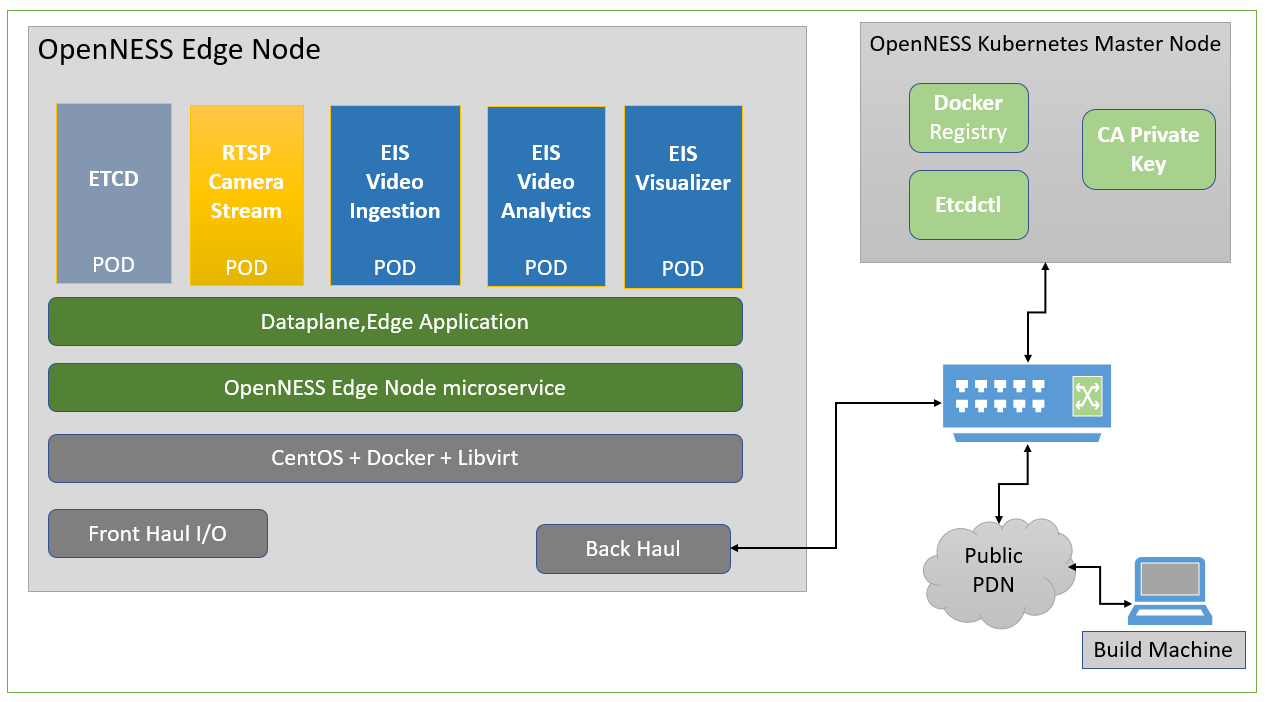
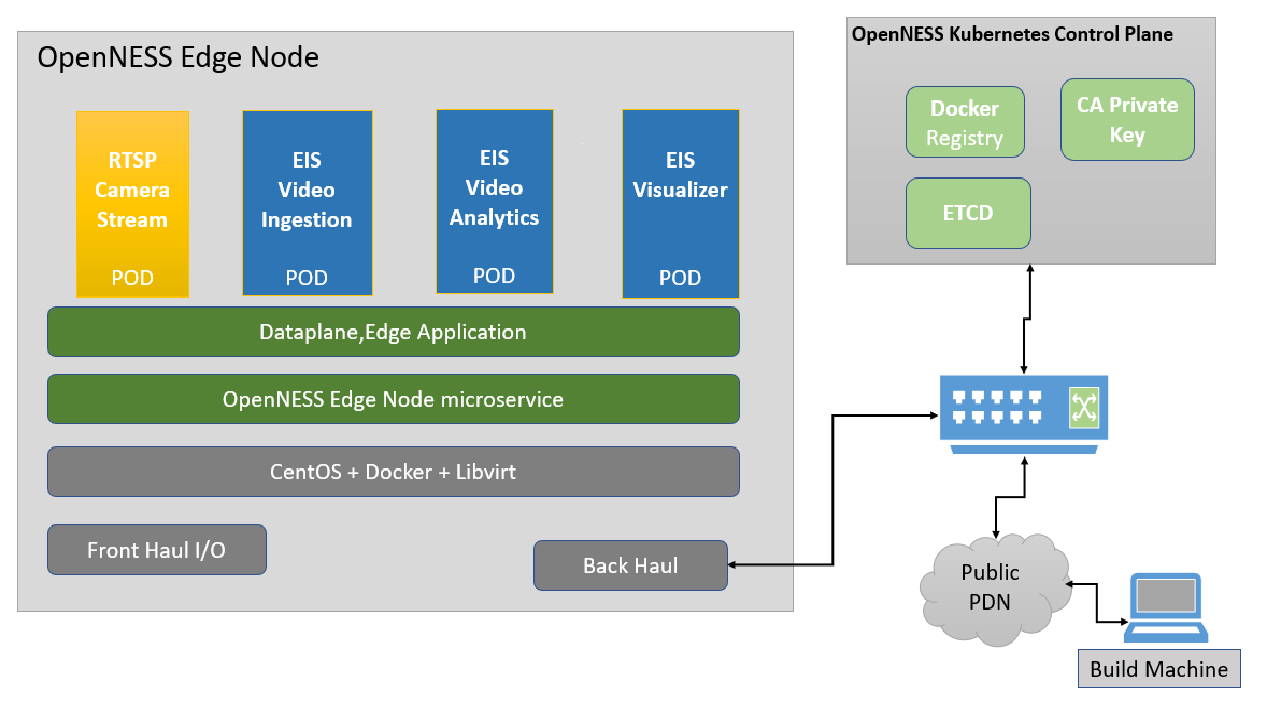
EIS2.4 doc update

diff --git a/applications/eis-experience-kit/README.md b/applications/eis-experience-kit/README.md
@@ -49,7 +49,22 @@ To use the release package, user should get it manually and the path to it shoul
 
 The release package can be downloaded here: [https://software.intel.com/iot/edgesoftwarehub/download/home/industrialinsights](https://software.intel.com/iot/edgesoftwarehub/download/home/industrialinsights)
 
-After release package download follow link for preparing release code base: [https://software.intel.com/content/www/us/en/develop/documentation/edge-insights-industrial-doc/get-started-guide.html](https://software.intel.com/content/www/us/en/develop/documentation/edge-insights-industrial-doc/get-started-guide.html)
+
+```sh
+Download Version :2.4
+Target System OS :Ubuntu 18.04.LTS
+Select Use Case :Video Analytic + Time Series
+```
+During  download we will get product key, keep this product key which will use while preparing edgesoftware download.
+
+After release package download follow this link for preparing eis release code base on Ubuntu Host: [https://software.intel.com/content/www/us/en/develop/documentation/edge-insights-industrial-doc/get-started-guide.html](https://software.intel.com/content/www/us/en/develop/documentation/edge-insights-industrial-doc/get-started-guide.html)
+
+```sh
+#unzip edge_insights_industrial.zip
+#cd edge_insights_industrial
+#./edgesoftware download
+```
+After download success copy "Edge_Insights_for_Industrial_2.4" folder on OpenNESS ansible host build machine.
 
 ### Build Stage
 Overview on `eis-experience-kit` architecture:
@@ -62,13 +77,18 @@ All the `build` tasks are perfomed on `localhost`. It is the same machine that A
 `Deploy` tasks are executed on OpenNESS Master Node. These tasks include ETCD certificates and ZMQ keys generation process and adding apps configs to ETCD. All these things are done just before the particular application has been deployed. For the deployment `kubectl` command and Kubernetes manifest files have been used. 
 
 ### Cleanup
-All the roles in Ansible Playbook have clean up scripts that can be run to reverse the build and deploy tasks. It should be used only for debug purposes. It is not guarantee that clean up scripts will remove everything that has been added by build & deployment stages. In the most cases it is enough for running the deployment of particular application or the whole EIS again. `cleanup_eis_pcb_demo.sh` is a shell scripts that is running a sequence of cleaning tasks that should cover all the `deploy_eis_pcb_demo.sh` changes on the setup.
+All the roles in Ansible Playbook have clean up scripts that can be run to reverse the build and deploy tasks. It should be used only for debug purposes. It is not guarantee that clean up scripts will remove everything that has been added by build & deployment stages. In the most cases it is enough for running the deployment of particular application or the whole EIS again. `cleanup_eis_deployment.sh` is a shell scripts that is running a sequence of cleaning tasks that should cover all the `deploy_eis.sh` changes on the setup.
 
 ## Configuration
 User can configure the installation of EIS by modifying the files that contain variables used widely in Ansible Playbook. All the variables that can be adjusted by the user are placed in `host_vars` directory.
 
 ### Getting Sources Settings
-`eis-experience-kit` supports two ways of getting sources. It can be done by cloning the repository using git or use pre-downloaded release package. The first one can be chosen by setting `eis_source` to `gitclone`. User needs to be authorized to clone the repo from Gitlab and may be asked for credentials (or ssh key needs to be added to the Gitlab account). The second one requires `eis_source` to be set to `release` and `release_package_path` to be set to the release package path. Then package will be automatically extracted and used by Ansible scripts. These settings are available in `host_vars/localhost.yml`.
+`eis-experience-kit` supports two ways of getting sources. It can be done by cloning the repository using git or use pre-downloaded release package. The first one can be chosen by setting `eis_source` to `gitclone`. User needs to be authorized to clone the repo from Gitlab and may be asked for credentials (or ssh key needs to be added to the Gitlab account). The second one requires `eis_source` to be set to `release` and `release_package_path` to be set to the release package path. Then package will be automatically copy and used by Ansible scripts. These settings are available in `host_vars/localhost.yml`.
+
+```sh
+eis_source: "release"
+release_package_path: "<eis_release_codebase_path>/IEdgeInsights/"
+```
 
 ### Build Settings
 `localhost.yml` file contains all the settings specific for build process that is performed on localhost. User can set proxy settings and how the EIS sources will be handled.
@@ -77,10 +97,10 @@ User can configure the installation of EIS by modifying the files that contain v
 The second one is regarding the `deploy` process. All the settings are in `openness_controller.yml` file. It is for the action that will occur on OpenNESS Master Node. It contains mostly the values for certificates generation process and paths for Kubernetes deployment related files.
 
 ### Inventory
-User needs to set the OpenNESS Master Node IP address. It can be done in `inventory.ini` file.
+User needs to set the OpenNESS Controller IP address. It can be done in `inventory.ini` file.
 
 ### Playbook Main File
-The main file for playbook is `eis_pcb_demo.yml`. User can define here which roles should be run during the build & deployment. They can be switch by using comments for unnecessary roles.
+The main file for playbook is `eis.yml`. User can define here which roles should be run during the build & deployment. They can be switch by using comments for unnecessary roles.
 
 ### EIS Demo Setting
 eis-experience-kit currently  we can configure for  Demo type as 
@@ -165,6 +185,19 @@ update the display on above `display_no`.
 ## Installation
 After all the configuration is done, script `deploy_eis.sh` needs to be executed to start the deployment process. No more actions are required, all the installation steps are fully automated. 
 
+After deployment success all pod should be in running state on eis namespace
+
+```sh
+# kubectl -n eis get pod
+NAME                                          READY   STATUS    RESTARTS   AGE
+deployment-video-analytics-77c55fc4b5-dc2hf   1/1     Running   0          19h
+deployment-video-ingestion-6566957ddc-96mgq   1/1     Running   0          19h
+deployment-webvisualizer-6877cfbdbd-h9dmv     1/1     Running   0          19h
+ia-camera-stream-f487cf9d-7jzxt               1/1     Running   0          19h
+ia-etcd                                       1/1     Running   0          19h
+#
+```
+
 ## Web Visualizer display
 
 After EIS deployed successfully output can be viewed using
@@ -176,7 +209,7 @@ username:`admin`
 password:`admin@123`
 
 **Note**:
-Open Web Visualizer on google chrome browser, if Your connection is not private show, select Advanced option and proceed to.
+Open Web Visualizer on google chrome browser, if connection is not private show, select Advanced option and proceed to.
 
 
 ## Removal
